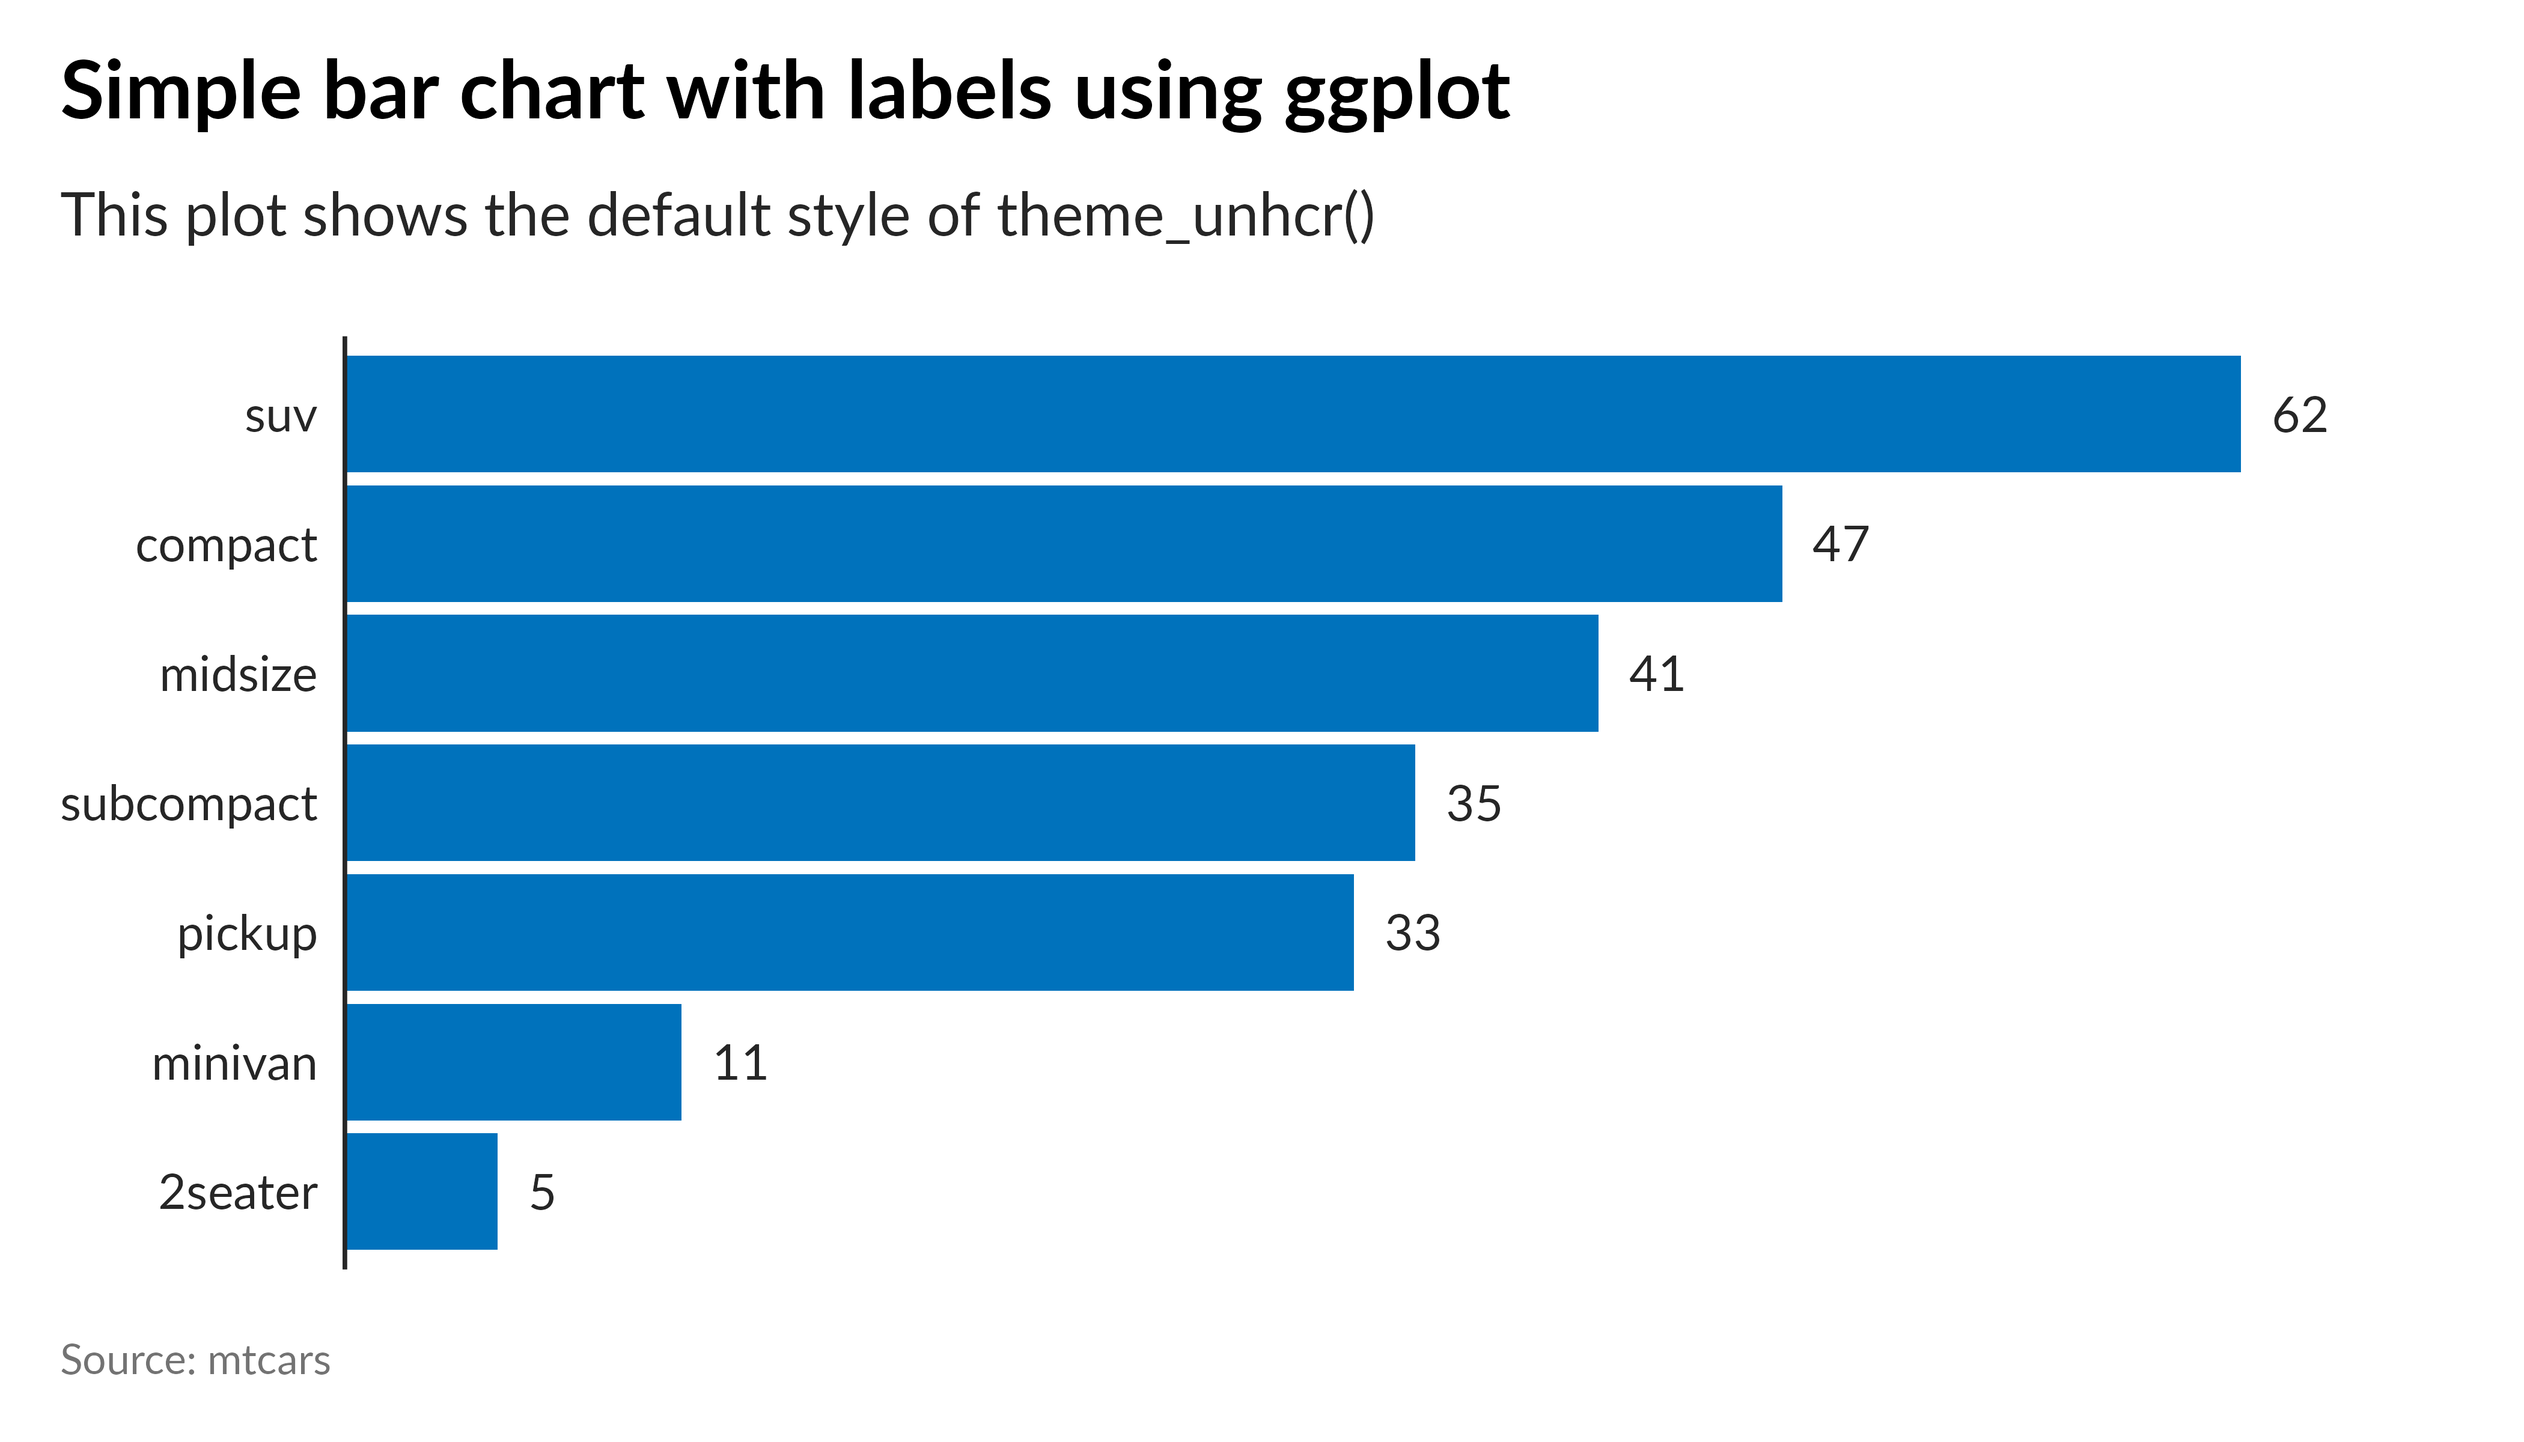
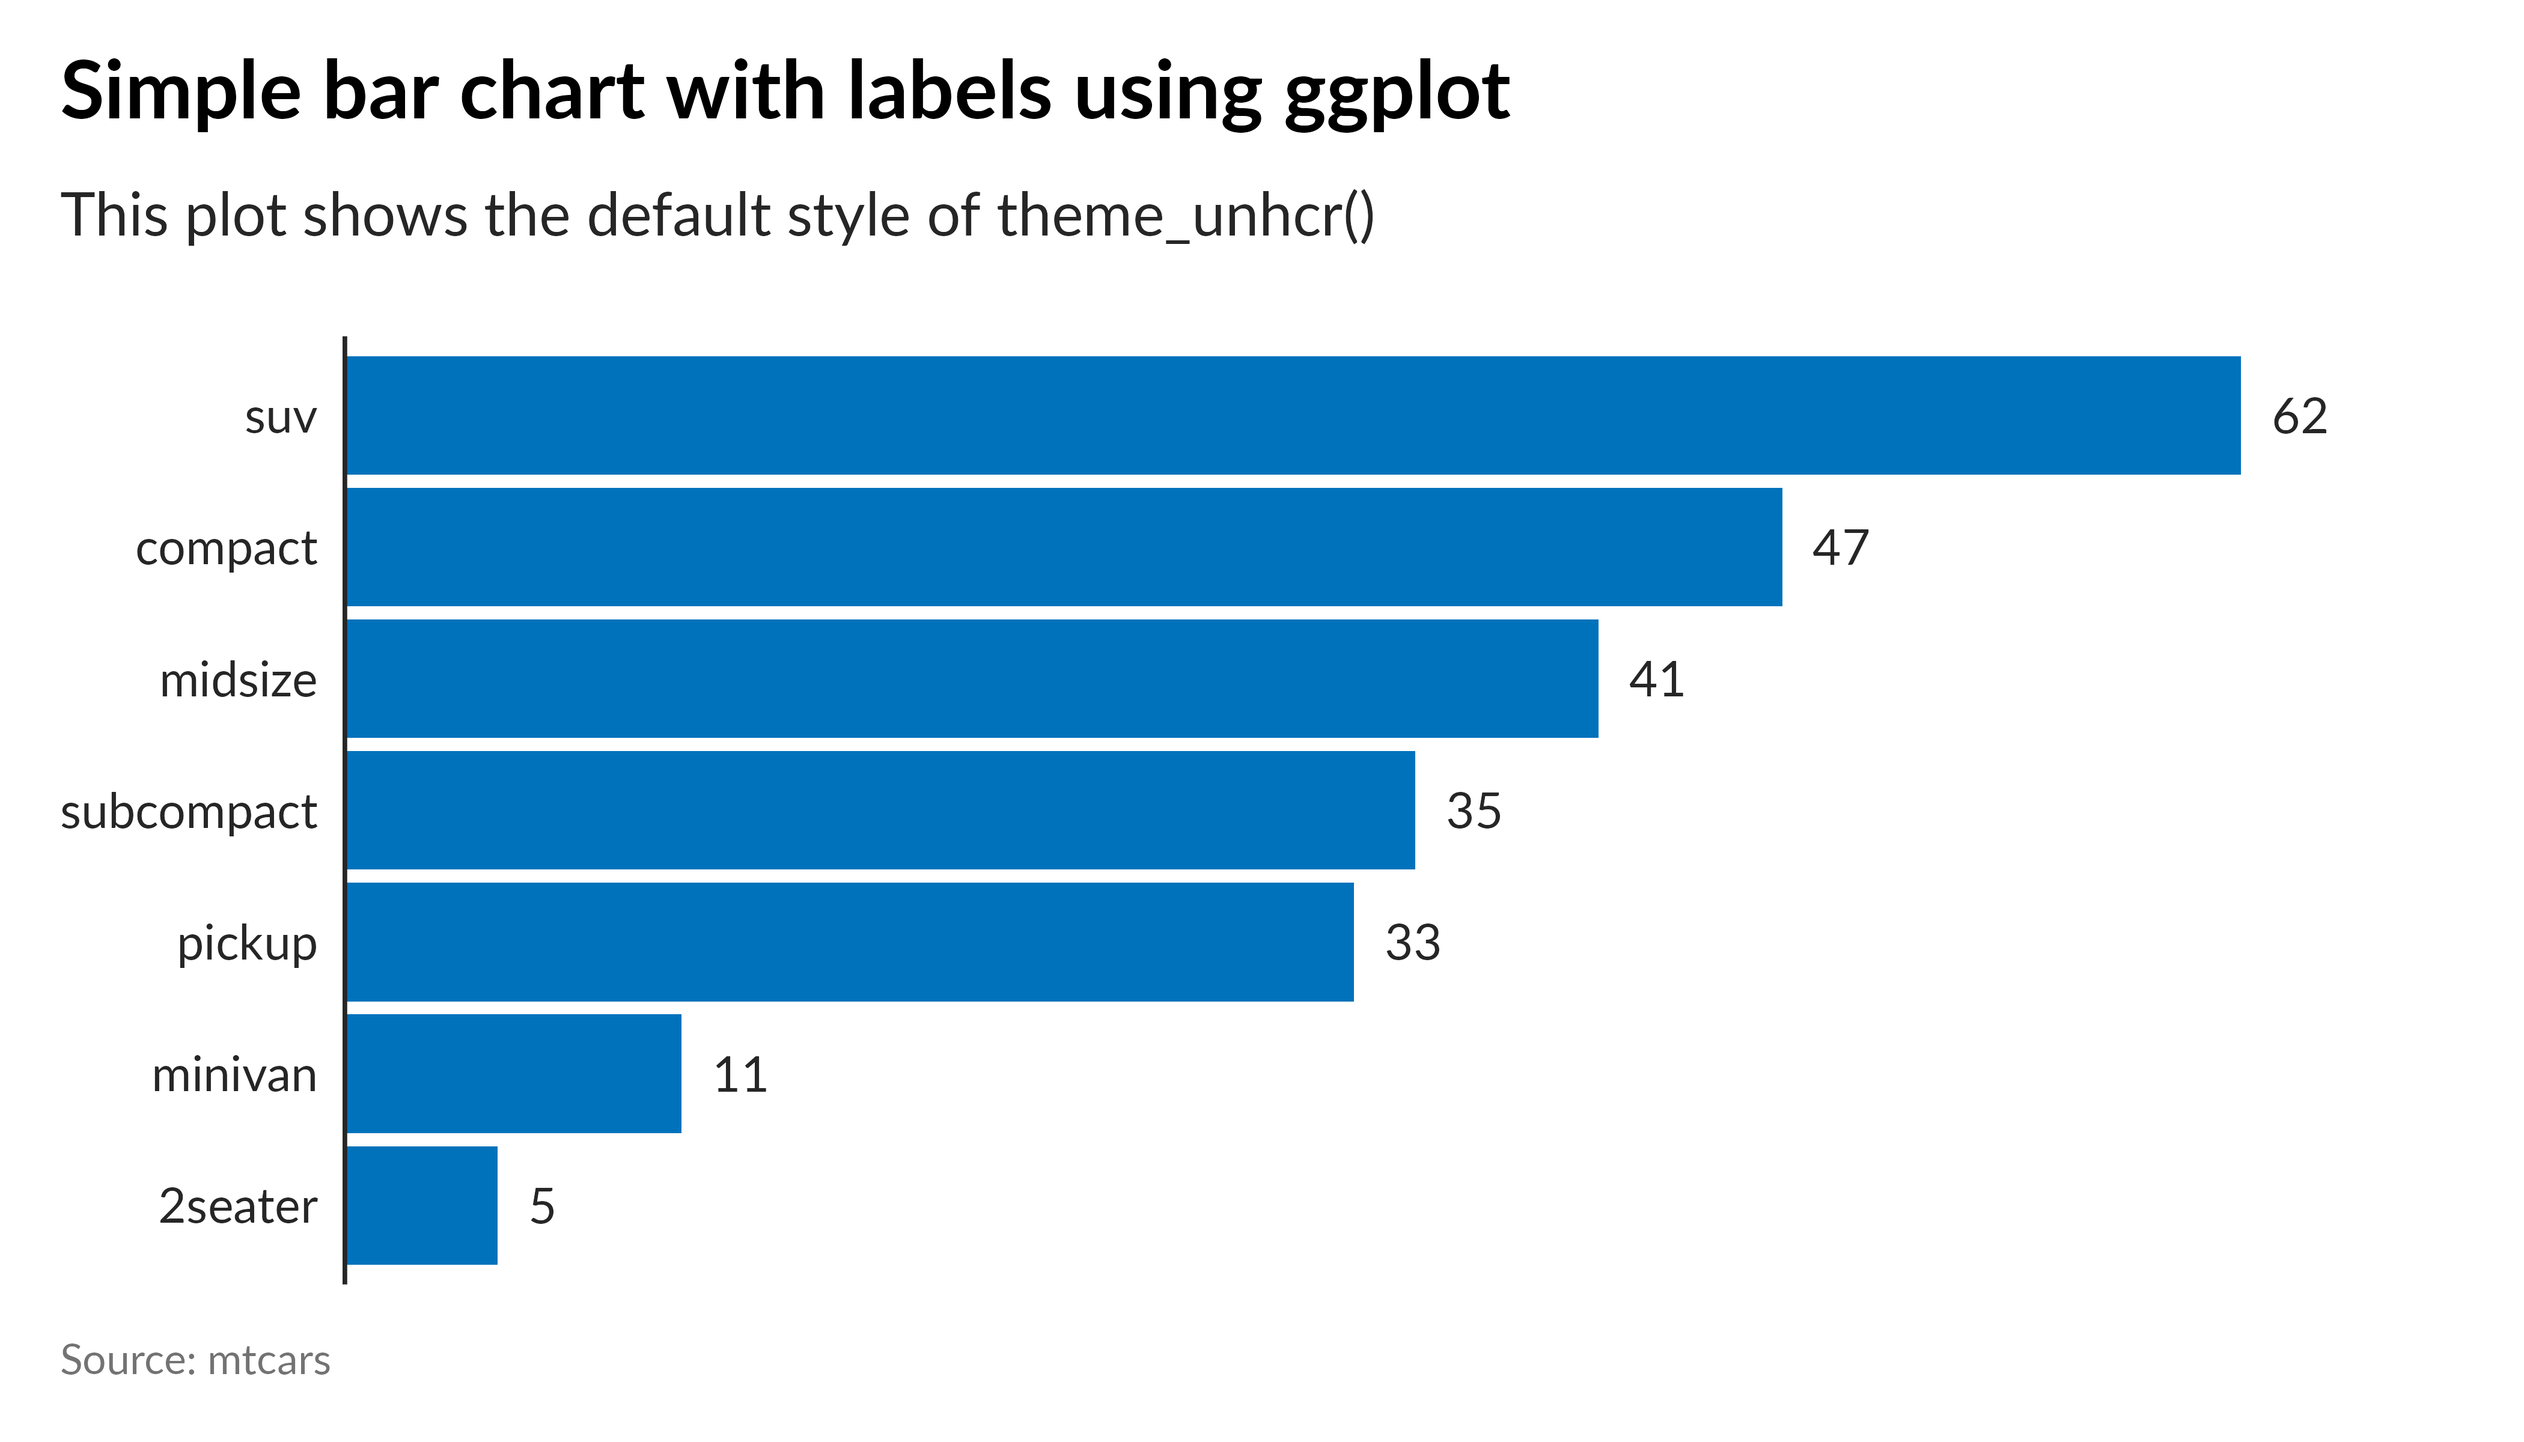
chore: update doc for migration

diff --git a/README.md b/README.md
@@ -7,7 +7,7 @@
 
 [![Lifecycle:
 stable](https://img.shields.io/badge/lifecycle-stable-brightgreen.svg)](https://lifecycle.r-lib.org/articles/stages.html#stable)
-[![R-CMD-check](https://github.com/unhcr-dataviz/unhcrthemes/actions/workflows/R-CMD-check.yaml/badge.svg)](https://github.com/unhcr-dataviz/unhcrthemes/actions/workflows/R-CMD-check.yaml)
+[![R-CMD-check](https://github.com/vidonne/unhcrthemes/actions/workflows/R-CMD-check.yaml/badge.svg)](https://github.com/vidonne/unhcrthemes/actions/workflows/R-CMD-check.yaml)
 [![CRAN
 status](https://www.r-pkg.org/badges/version/unhcrthemes)](https://CRAN.R-project.org/package=unhcrthemes)
 <!-- badges: end -->
@@ -43,7 +43,7 @@ package:
 # If pak is not yet installed, uncomment the following line:
 # install.packages("pak")
 
-pak::pkg_install("unhcr-dataviz/unhcrthemes")
+pak::pkg_install("vidonne/unhcrthemes")
 ```
 
 ## Usage
@@ -73,7 +73,7 @@ ggplot(
   theme_unhcr()
 ```
 
-<img src="man/figures/README-base-plot-1.png" width="90%" style="display: block; margin: auto;" />
+<img src="man/figures/README-base-plot-1.png" alt="" width="90%" style="display: block; margin: auto;" />
 
 ### Fonts
 
@@ -99,14 +99,14 @@ with UNHCR’s visual identity.
 display_unhcr_all()
 ```
 
-<img src="man/figures/README-palette-all-1.png" width="90%" style="display: block; margin: auto;" />
+<img src="man/figures/README-palette-all-1.png" alt="" width="90%" style="display: block; margin: auto;" />
 
 ``` r
 # Or select a specific one and limit the number of colors
 display_unhcr_pal(n = 3, "pal_blue")
 ```
 
-<img src="man/figures/README-palette-blue-1.png" width="90%" style="display: block; margin: auto;" />
+<img src="man/figures/README-palette-blue-1.png" alt="" width="90%" style="display: block; margin: auto;" />
 
 ### Scales (color/fill)
 
@@ -129,7 +129,7 @@ ggplot(
   theme_unhcr(legend_title = TRUE)
 ```
 
-<img src="man/figures/README-scale-plot-1.png" width="90%" style="display: block; margin: auto;" />
+<img src="man/figures/README-scale-plot-1.png" alt="" width="90%" style="display: block; margin: auto;" />
 
 ### Geoms (text/label)
 
@@ -150,24 +150,24 @@ dplyr::count(mpg, class) |>
   theme_unhcr(grid = FALSE, axis = "y", axis_title = FALSE, axis_text = "y")
 ```
 
-<img src="man/figures/README-geom-plot-1.png" width="90%" style="display: block; margin: auto;" />
+<img src="man/figures/README-geom-plot-1.png" alt="" width="90%" style="display: block; margin: auto;" />
 
 Explore more examples of `{unhcrthemes}` in action on the [package
-vignette](https://unhcr-dataviz.github.io/unhcrthemes/articles/unhcrthemes.html)
+vignette](https://vidonne.github.io/unhcrthemes/articles/unhcrthemes.html)
 or [UNHCR Data Visualization
 Platform](https://dataviz.unhcr.org/tutorials/r/).
 
 ## Additional UNHCR Tools
 
-<!-- * [**unhcrthemes**](https://github.com/unhcr-dataviz/unhcrthemes): UNHCR branded ggplot2 theme and color palettes -->
+<!-- * [**unhcrthemes**](https://github.com/vidonne/unhcrthemes): UNHCR branded ggplot2 theme and color palettes -->
 
-- [**unhcrdown**](https://github.com/unhcr-dataviz/unhcrdown): UNHCR
-  templates for R Markdown
+- [**unhcrdown**](https://github.com/vidonne/unhcrdown): UNHCR templates
+  for R Markdown
 - [**refugees**](https://github.com/PopulationStatistics/refugees):
   Access to UNHCR Refugee Data Finder API
-- [**quarto-html-unhcr**](https://github.com/unhcr-dataviz/quarto-html-unhcr):
+- [**quarto-html-unhcr**](https://github.com/vidonne/quarto-html-unhcr):
   Quarto extension for UNHCR branded HTML documents
-- [**quarto-revealjs-unhcr**](https://github.com/unhcr-dataviz/quarto-revealjs-unhcr):
+- [**quarto-revealjs-unhcr**](https://github.com/vidonne/quarto-revealjs-unhcr):
   Quarto extension for UNHCR branded presentations
 - [**Data Visualization Platform**](https://dataviz.unhcr.org/): UNHCR’s
   data visualization guidelines and tools
@@ -187,11 +187,10 @@ welcoming and inclusive community, we follow our [Contributor Code of
 Conduct](https://contributor-covenant.org/version/2/0/CODE_OF_CONDUCT.html).
 If you have suggestions, uncover bugs, or envision new features, kindly
 submit an [issue on
-GitHub](https://github.com/unhcr-dataviz/unhcrthemes/issues). To
-contribute code, don’t hesitate to fork the repository and create a pull
-request.
+GitHub](https://github.com/vidonne/unhcrthemes/issues). To contribute
+code, don’t hesitate to fork the repository and create a pull request.
 
 ## License
 
 This package is distributed under the [MIT
-License](https://github.com/unhcr-dataviz/unhcrthemes/blob/master/LICENSE.md).
+License](https://github.com/vidonne/unhcrthemes/blob/master/LICENSE.md).
